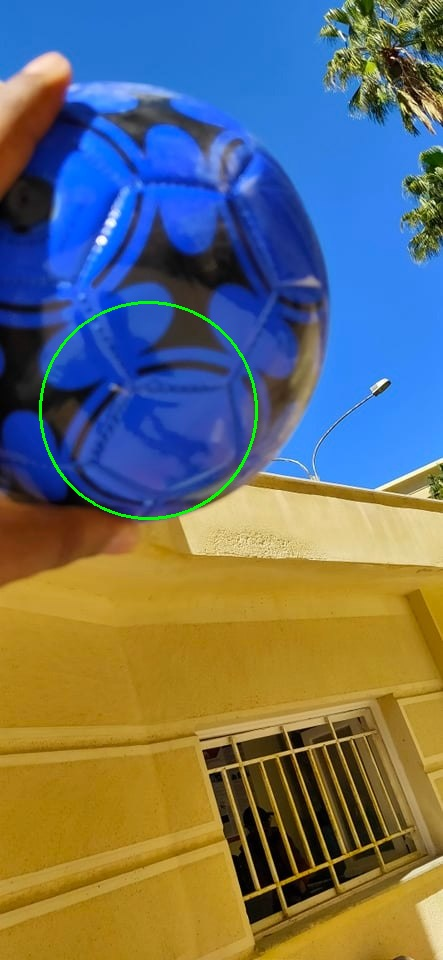
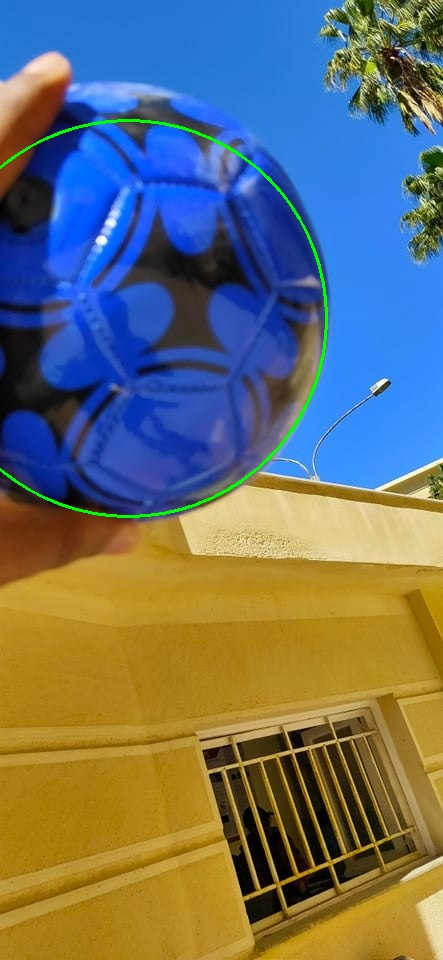
fix red ball

diff --git a/1. Classical View/Detector.py b/1. Classical View/Detector.py
@@ -34,10 +34,10 @@ class BallDetector:
             cv2.HOUGH_GRADIENT,
             dp=1,
             minDist=200,
-            param1=300,
+            param1=450,
             param2=20,
             minRadius=10,
-            maxRadius=150
+            maxRadius=200
         )
 
         # Detect Circles for Red Balls
@@ -46,7 +46,7 @@ class BallDetector:
             cv2.HOUGH_GRADIENT,
             dp=1,
             minDist=200,
-            param1=460,
+            param1=470,
             param2=23,
             minRadius=12,
             maxRadius=150
@@ -81,7 +81,7 @@ class BallDetector:
         # Draw the smallest red and largest blue circles on the original image
         if smallest_red_circle is not None:
             center, radius = smallest_red_circle
-            cv2.circle(self.image, center, radius, (0, 0, 255), 2)
+            cv2.circle(self.image, center, radius, (255, 0, 0), 2)
 
         if largest_blue_circle is not None:
             center, radius = largest_blue_circle

diff --git a/1. Classical View/main.py b/1. Classical View/main.py
@@ -15,6 +15,6 @@ if __name__ == "__main__":
         # Create a BallDetector instance for each image
         detector = BallDetector(location_path)
         detector.detect_balls()
-        # detector.display_result()
+        # detector.display_result() # Show the result
         store_path = os.path.join(store_folder, image_name)
-        detector.save_result(store_path)  # Uncomment to save the result
+        detector.save_result(store_path)  # Save the result
